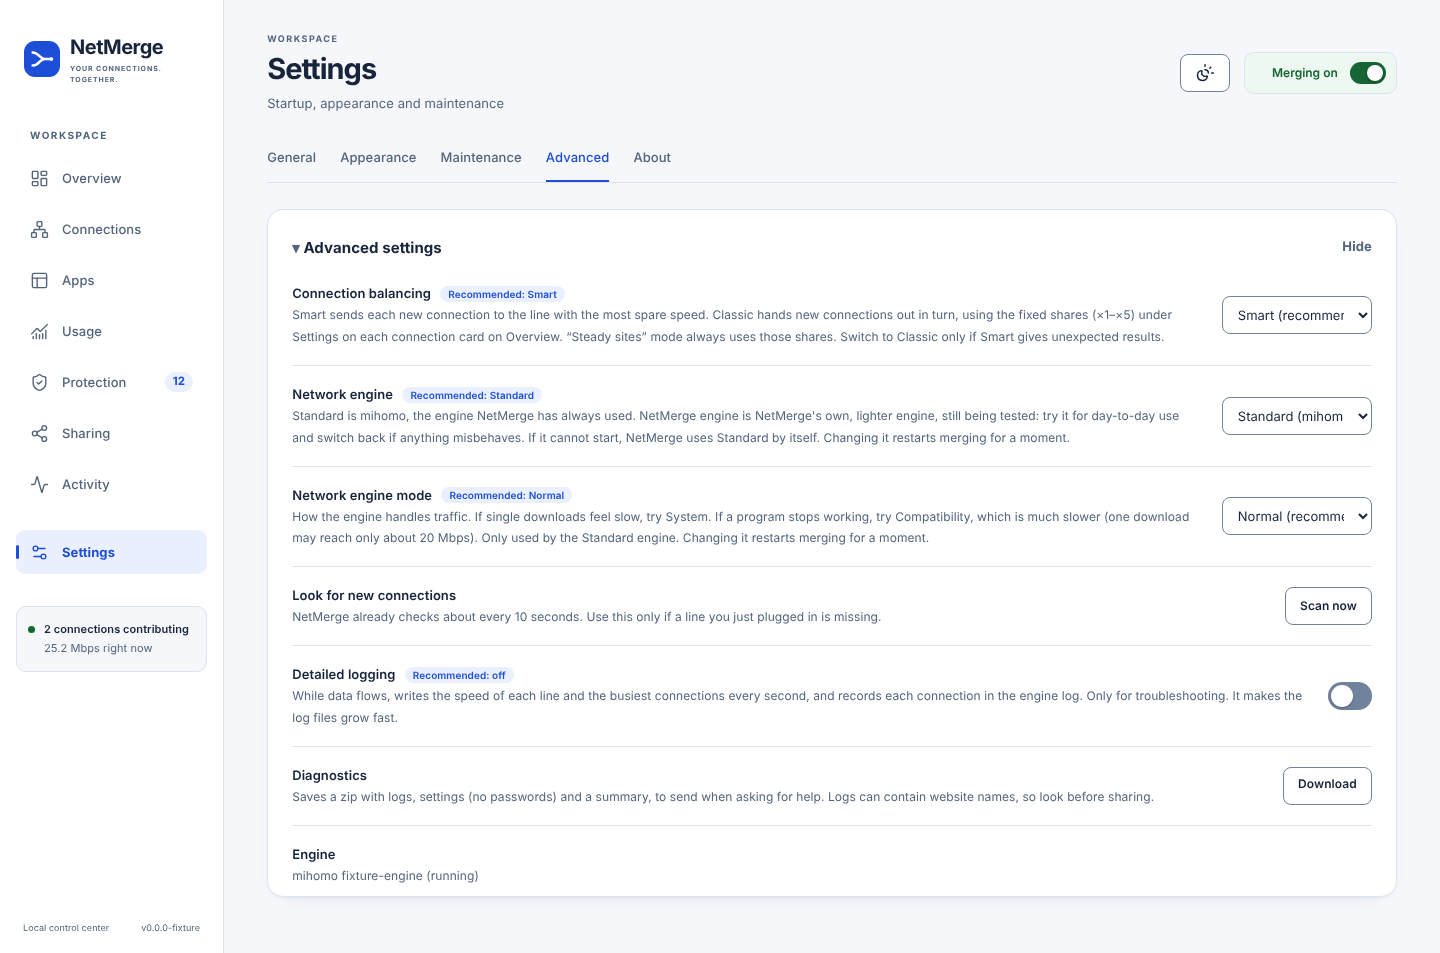
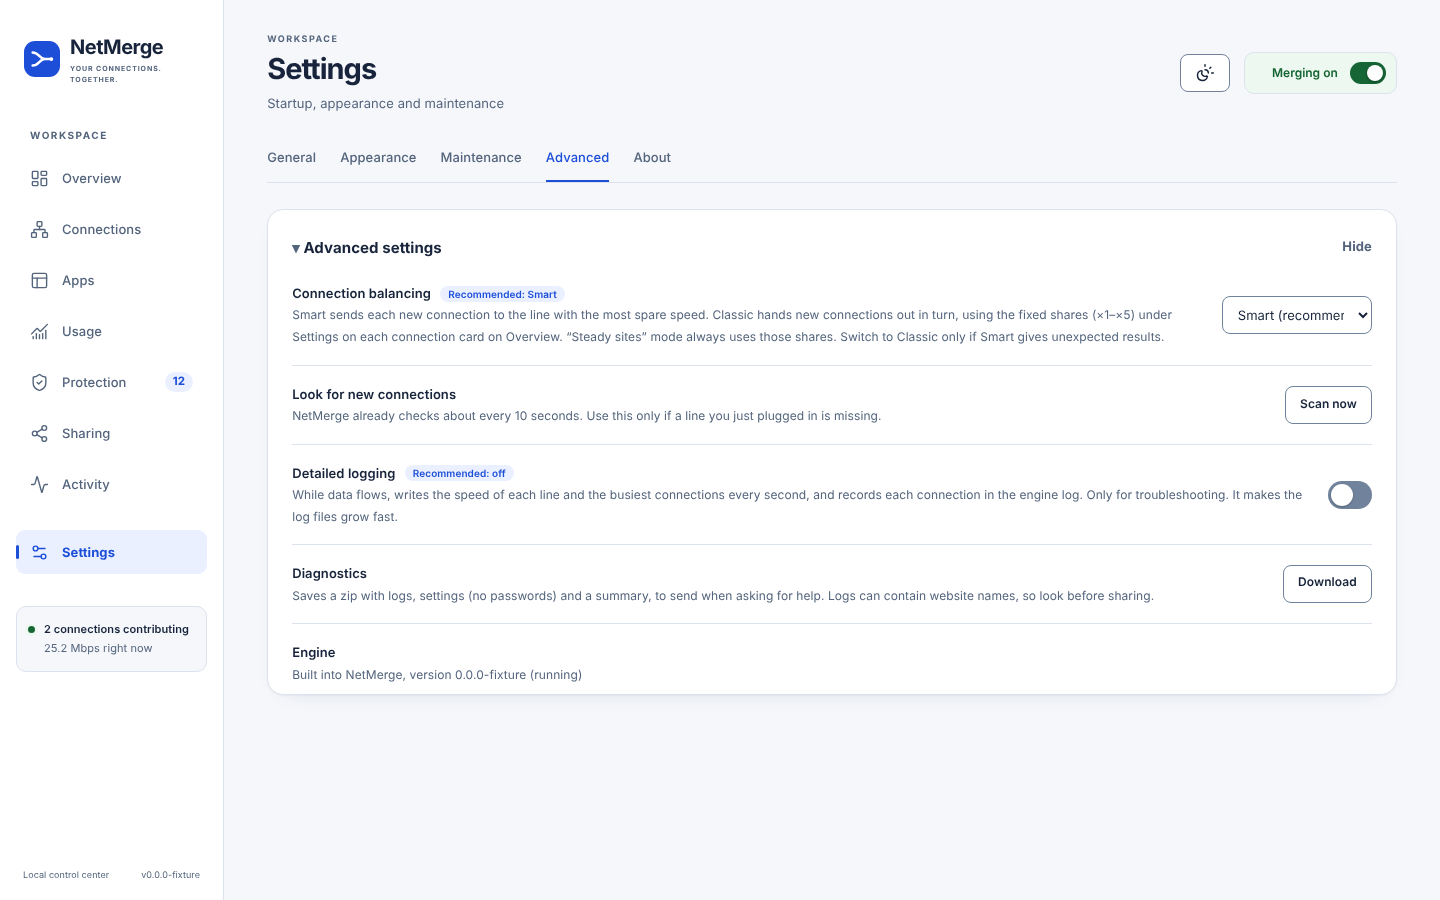
Docs and screenshots after 3.18.0 (#21)
The Advanced settings screenshot still showed the removed engine
choice; all screenshots are regenerated. The code signing policy no
longer mentions downloading an engine, and the handover names 3.18.0.

Claude-Session: https://claude.ai/code/session_01L77RmexerBFeEp2WuzA41y

diff --git a/docs/CODE_SIGNING_POLICY.md b/docs/CODE_SIGNING_POLICY.md
@@ -28,7 +28,7 @@ Every release needs a manual approval before it is signed.
 NetMerge does not collect or send usage data, and has no analytics or telemetry. By itself it connects to these
 services, and only when the matching feature is used:
 
-- GitHub (`api.github.com`, `github.com`, `raw.githubusercontent.com`, `cdn.jsdelivr.net`): the update check, downloading the network engine, and downloading the optional blocking lists.
+- GitHub (`api.github.com`, `github.com`, `raw.githubusercontent.com`, `cdn.jsdelivr.net`): the update check and downloading the optional blocking lists.
 - Speed test servers (`speed.cloudflare.com`, `proof.ovh.net`) when you run a speed test.
 - Connectivity checks (`www.msftconnecttest.com`, `www.gstatic.com`) to see whether a connection is online.
 - `ifconfig.me`, to show the public address of a connection.
@@ -39,7 +39,7 @@ NetMerge keeps its settings and history on your own computer, in its data folder
 ## System changes
 
 NetMerge says before it changes anything on your computer. Changes it can make, when you turn the matching feature on:
-start with Windows (a scheduled task), a Windows Firewall rule for sharing your connection with other devices on your local network, and downloading the network engine.
+start with Windows (a scheduled task), a Windows Firewall rule for sharing your connection with other devices on your local network, and installing an update you accept.
 The scheduled task and the firewall rule follow the matching setting. (Before applying, the maintainer must verify that statement, and that the uninstall steps remove everything.)
 
 ## Reporting a problem

diff --git a/docs/handover.md b/docs/handover.md
@@ -1,6 +1,6 @@
 # Handover: NetMerge for Windows
 
-Written 2026-11-11 for the next person or session working on NetMerge (version 3.13.1). Read this first, then
+Written 2026-11-11 for the next person or session working on NetMerge, last updated 2026-11-13 (version 3.18.0). Read this first, then
 `README.md` and the top of `CHANGELOG.md`. Facts here were true on that date; check the code when in doubt.
 
 ## 1. The owner and how to work with him
@@ -67,7 +67,7 @@ Not part of NetMerge any more:
 - The PC: Windows 11, lines = **Ethernet** (Intel, about 100 Mbps cable; the ISP slows it after about 100 MB),
   **Wi-Fi** (TP-Link USB stick, 130 Mbps link), **Ethernet 6** (Samsung phone, USB tethering, mobile data,
   plugged in when testing). Gateway 192.168.1.1 for cable and Wi-Fi (different public IPs).
-- A **test copy** of NetMerge runs from `E:\NetMerge\test-3.11.14\` (self-updates; currently 3.13.1). Its window is
+- A **test copy** of NetMerge runs from `E:\NetMerge\test-3.11.14\` (self-updates to each release). Its window is
   `http://127.0.0.1:9196`. After a release, update it with `POST /api/update {"action":"check"}` then
   `{"action":"install"}` (header `X-NetMerge: 1`), then check the version.
 - Tools that worked: the built-in browser pane on the PC (tab on `127.0.0.1:9196`) for the API and the window;
